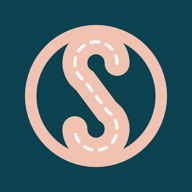
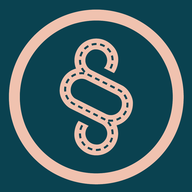
Add files via upload

diff --git a/index.html b/index.html
@@ -404,14 +404,7 @@ html.standalone #onboard{padding-top:max(calc(env(safe-area-inset-top) + 24px), 
   <!-- ONBOARDING -->
   <div id="onboard">
     <svg class="road" viewBox="0 0 200 320" fill="none" stroke="#ffffff" stroke-width="10" stroke-dasharray="2 16" stroke-linecap="round"><path d="M150 10 C 60 60, 60 130, 150 170 S 60 270, 120 315"/></svg>
-    <div class="logo" style="border:none;width:110px;height:110px;">
-      <svg viewBox="0 0 100 100" width="110" height="110" fill="none">
-        <path d="M 22 28 A 34 34 0 0 1 78 28" stroke="#F0C2AF" stroke-width="7" stroke-linecap="round"/>
-        <path d="M 78 72 A 34 34 0 0 1 22 72" stroke="#F0C2AF" stroke-width="7" stroke-linecap="round"/>
-        <path d="M 61 33 A 11 11 0 1 0 44 42 L 56 58 A 11 11 0 1 1 39 67" stroke="#F0C2AF" stroke-width="13" stroke-linecap="round"/>
-        <path d="M 61 33 A 11 11 0 1 0 44 42 L 56 58 A 11 11 0 1 1 39 67" stroke="#0A4250" stroke-width="1.6" stroke-dasharray="4 4" stroke-linecap="round"/>
-      </svg>
-    </div>
+    <img src="icon-192.png" alt="Práva řidiče" style="width:112px;height:112px;margin-top:70px;border-radius:0;" />
     <div class="spacer"></div>
     <div class="ob-eyebrow">Právní ochrana řidiče</div>
     <h1 class="title-xl">Zachráníme<br/>vám řidičák.</h1>
@@ -650,7 +643,7 @@ html.standalone #onboard{padding-top:max(calc(env(safe-area-inset-top) + 24px), 
         </div>
         <div class="section-label" style="margin-top:8px;">Odkazy</div>
         <div class="list-card" id="profileLinks"></div>
-        <div class="ver">Verze 0.8.0 · build 27</div>
+        <div class="ver">Verze 0.8.1 · build 28</div>
       </div>
     </div>
 
@@ -997,6 +990,7 @@ function tab(name){
   const prev=TABS.indexOf(state.screen), next=TABS.indexOf(name);
   state.tab=name; state.screen=name; state.history=[];
   showScreen(name);
+  if(suppressTabAnim){ const scr=document.getElementById('s-'+name); scr.style.animation='none'; void scr.offsetWidth; }
   if(!suppressTabAnim && prev>-1 && next>-1 && prev!==next){
     const oldScr=document.getElementById('s-'+TABS[prev]);
     const scr=document.getElementById('s-'+name);

diff --git a/sw.js b/sw.js
@@ -1,5 +1,5 @@
 /* Práva řidiče — service worker (offline cache + push) */
-const CACHE = 'pravaridice-v16';
+const CACHE = 'pravaridice-v17';
 const ASSETS = [
   './',
   './index.html',
